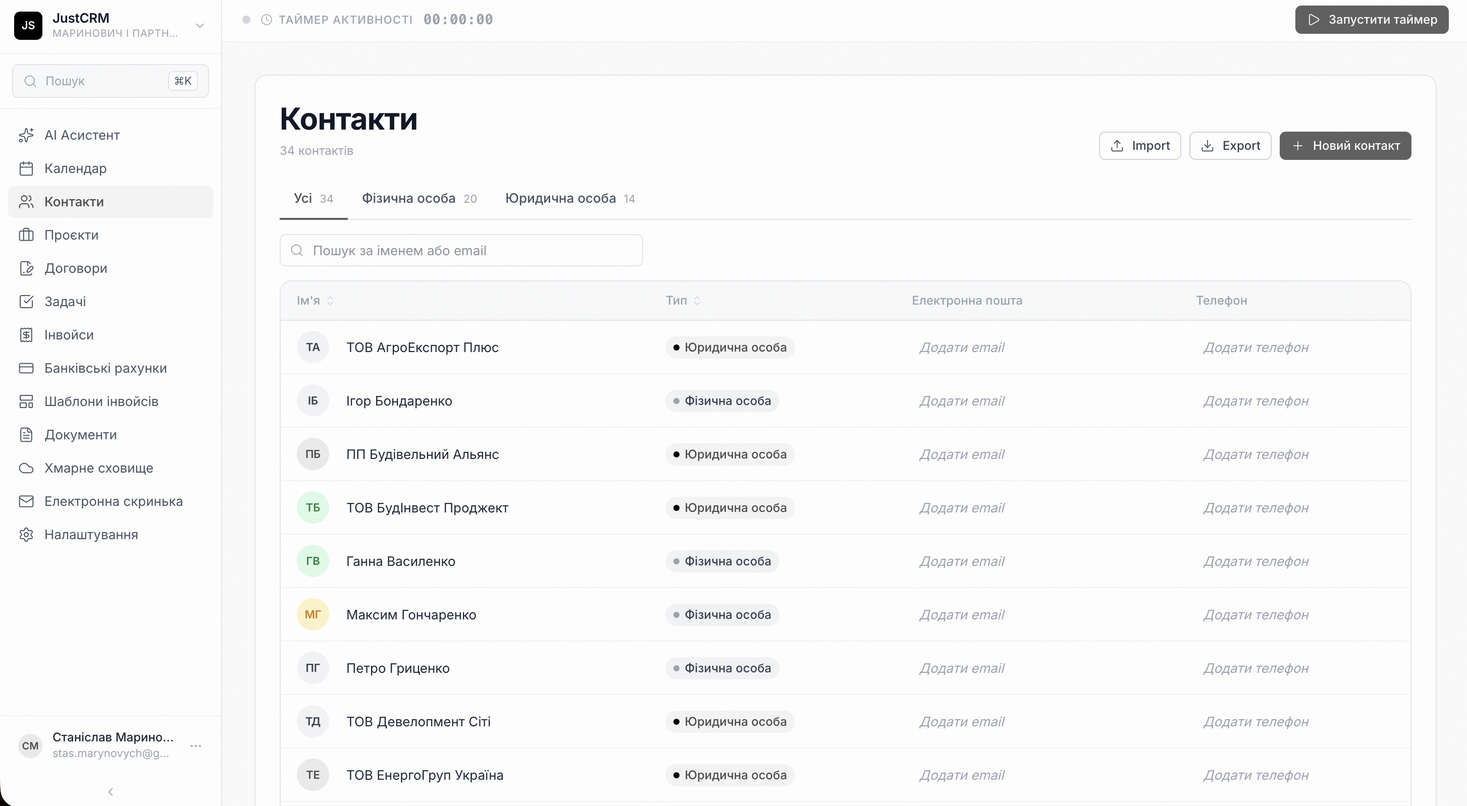
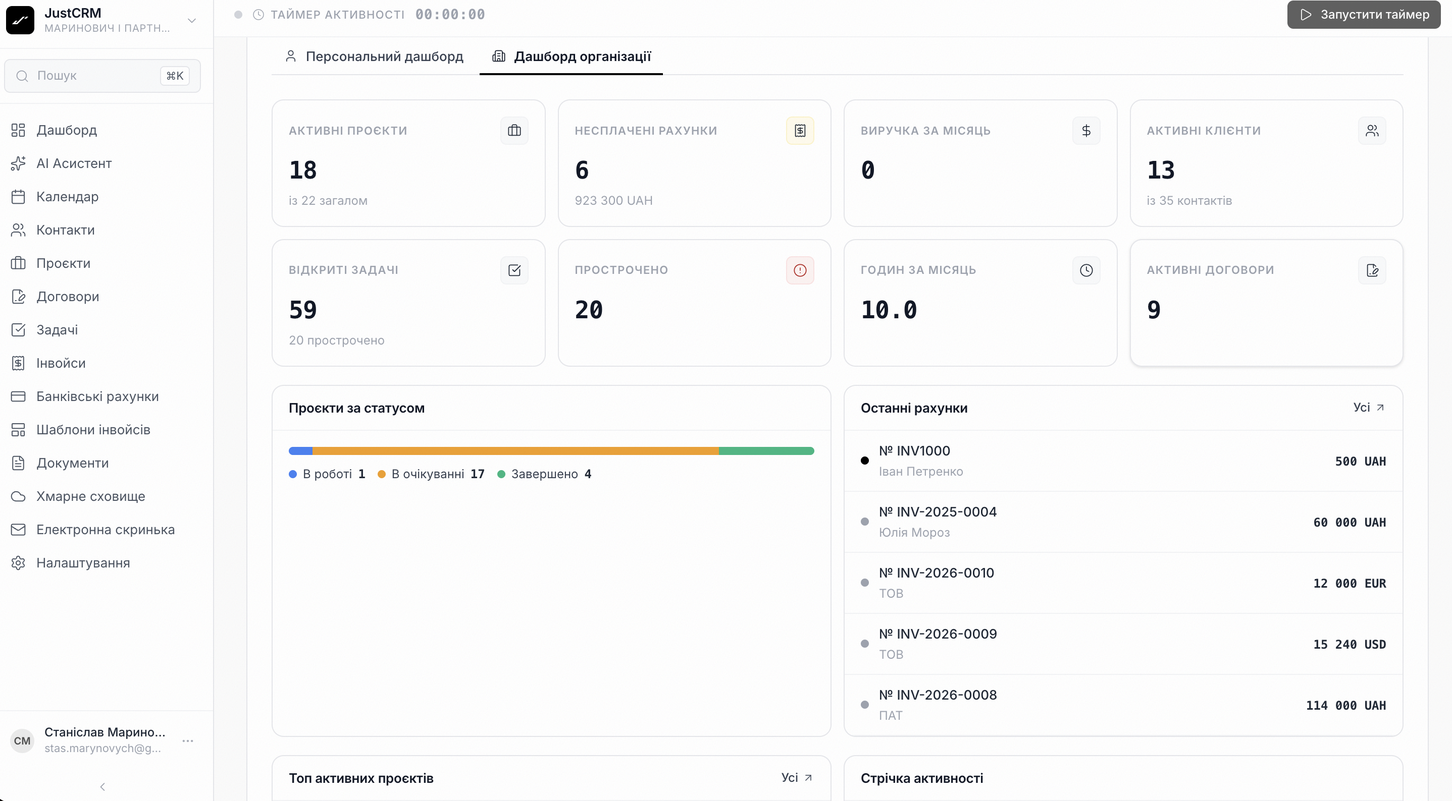
Feature screenshots, light theme, scroll buttons, layout fixes
- All 7 feature sections now have real CRM screenshots
- Hero banner updated with new screenshot
- Sections: white/light-gray alternating (no dark theme)
- Custom Tables renamed to "Конструктор таблиць"
- Tags centered, titles left-aligned
- Removed lg:pl-48 sidebar padding from all sections
- Added scroll-to-top/bottom buttons
- Hero banner max-w-[1400px]
- PageNav adapted for light-only theme

diff --git a/components/Features.tsx b/components/Features.tsx
@@ -6,11 +6,12 @@ const sections = [
   {
     id: "cases",
     nav: "Справи",
+    image: "/images/feat-cases.png",
     tag: "СПРАВИ",
     title: "Вся інформація по справі —",
     titleLight: " в одному місці",
     desc: "Документи, задачі, оплати, контакти та листування зібрані в картці справи. Три режими перегляду — Kanban, список або таблиця.",
-    bg: "black" as const,
+    bg: "gray" as const,
     cards: [
       {
         title: "Kanban, список, таблиця",
@@ -62,6 +63,7 @@ const sections = [
   {
     id: "billing",
     nav: "Білінг",
+    image: "/images/feat-billing.png",
     tag: "БІЛІНГ & КЕРУВАННЯ ЧАСОМ",
     title: "Облік часу та виставлення рахунків",
     titleLight: " без зайвих кроків",
@@ -118,11 +120,12 @@ const sections = [
   {
     id: "tasks",
     nav: "Задачі",
+    image: "/images/feat-tasks.png",
     tag: "УПРАВЛІННЯ ЗАДАЧАМИ ТА ПОДІЯМИ",
     title: "Планування роботи",
     titleLight: " з контролем виконання",
     desc: "Створюйте задачі, призначайте виконавців, встановлюйте дедлайни. Кожна задача прив'язана до справи та відображається у зручному форматі.",
-    bg: "black" as const,
+    bg: "gray" as const,
     layout: "centered-grid" as const,
     cards: [
       {
@@ -175,6 +178,7 @@ const sections = [
   {
     id: "clients",
     nav: "Клієнти",
+    image: "/images/feat-clients.png",
     tag: "РОБОТА З КЛІЄНТАМИ",
     title: "Повне досьє клієнта —",
     titleLight: " від першого звернення до завершення справи",
@@ -231,11 +235,12 @@ const sections = [
   {
     id: "ai",
     nav: "AI",
+    image: "/images/feat-ai.png",
     tag: "AI-МОЖЛИВОСТІ",
     title: "Інструменти штучного інтелекту,",
     titleLight: " вбудовані у щоденну роботу",
     desc: "Генерація документів, голосове введення, покращення текстів та пошук по базі знань фірми. AI формує чернетку — юрист перевіряє та затверджує.",
-    bg: "black" as const,
+    bg: "gray" as const,
     layout: "cards-before-banner" as const,
     cards: [
       {
@@ -291,7 +296,8 @@ const sections = [
   {
     id: "tables",
     nav: "Таблиці",
-    tag: "КАСТОМНІ ТАБЛИЦІ",
+    image: "/images/feat-tables.png",
+    tag: "КОНСТРУКТОР ТАБЛИЦЬ",
     title: "Власні реєстри та довідники",
     titleLight: " всередині CRM",
     desc: "Створюйте таблиці під потреби Вашої практики — з полями, фільтрами та зв'язками. Без переходу в Notion або Google Sheets.",
@@ -350,11 +356,12 @@ const sections = [
   {
     id: "docs",
     nav: "Документи",
+    image: "/images/feat-docs.png",
     tag: "ДОКУМЕНТИ",
     title: "Зберігання та генерація документів",
     titleLight: " в єдиному просторі",
     desc: "Завантажуйте файли, створюйте документи з шаблонів, надавайте доступ команді. Кожен документ прив'язаний до справи або клієнта.",
-    bg: "black" as const,
+    bg: "gray" as const,
     layout: "centered-list" as const,
     cards: [
       {
@@ -405,7 +412,8 @@ const sections = [
   },
 ];
 
-function AppWindow({ dark, label }: { dark: boolean; label: string }) {
+function AppWindow({ dark, label, image }: { dark: boolean; label: string; image?: string }) {
+  const bp = process.env.NEXT_PUBLIC_BASE_PATH || "";
   return (
     <div className="w-full mx-auto">
       <div
@@ -436,6 +444,9 @@ function AppWindow({ dark, label }: { dark: boolean; label: string }) {
           <div className="w-[52px]" />
         </div>
         {/* Content area */}
+        {image ? (
+          <img src={`${bp}${image}`} alt={`JustCRM — ${label}`} className="w-full h-auto" />
+        ) : (
         <div className={`aspect-[16/9] flex items-center justify-center ${
           dark ? "bg-[#141414]" : "bg-[#fafafa]"
         }`}>
@@ -445,6 +456,7 @@ function AppWindow({ dark, label }: { dark: boolean; label: string }) {
             {label}
           </span>
         </div>
+        )}
       </div>
     </div>
   );
@@ -474,7 +486,8 @@ export default function Features() {
   return (
     <div id="features" ref={containerRef}>
       {sections.map((s, i) => {
-        const dark = s.bg === "black";
+        const dark = false;
+        const bgClass = s.bg === "gray" ? "bg-[#f4f4f4]" : "bg-white";
         const isVisible = visible.has(i);
 
         return (
@@ -482,44 +495,45 @@ export default function Features() {
             key={s.id}
             id={`feat-${s.id}`}
             ref={(el: HTMLElement | null) => { sectionRefs.current[i] = el as HTMLDivElement | null; }}
-            className={`${dark ? "bg-black text-white" : "bg-white text-black"} min-h-screen flex items-center overflow-hidden`}
+            className={`${bgClass} text-black min-h-screen flex items-center overflow-hidden`}
           >
             <div className="max-w-[1400px] mx-auto px-6 lg:px-12 w-full py-24">
 
               {/* === DEFAULT LAYOUT: tag → title → desc → banner → cards === */}
               {(!("layout" in s) || !s.layout) && (<>
-                <p className={`font-mono text-[13px] font-semibold uppercase tracking-[0.1em] mb-6 transition-all duration-700 ${isVisible ? "opacity-100 translate-y-0" : "opacity-0 translate-y-4"} ${dark ? "text-white/60" : "text-black/50"}`}>{s.tag}</p>
+                <p className={`text-center font-mono text-[13px] font-semibold uppercase tracking-[0.1em] mb-6 transition-all duration-700 ${isVisible ? "opacity-100 translate-y-0" : "opacity-0 translate-y-4"} ${dark ? "text-white/60" : "text-black/50"}`}>{s.tag}</p>
                 <h2 className={`text-3xl lg:text-[42px] font-bold leading-[1.12] tracking-tight mb-4 transition-all duration-700 delay-100 ${isVisible ? "opacity-100 translate-y-0" : "opacity-0 translate-y-6"}`}>
                   {s.title}<span className={`font-normal ${dark ? "text-white/45" : "text-black/35"}`}>{s.titleLight}</span>
                 </h2>
                 <p className={`text-base leading-relaxed max-w-2xl mb-10 transition-all duration-700 delay-200 ${isVisible ? "opacity-100 translate-y-0" : "opacity-0 translate-y-4"} ${dark ? "text-white/50" : "text-black/45"}`}>{s.desc}</p>
-                <div className={`mb-8 transition-all duration-1000 delay-300 ${isVisible ? "opacity-100 translate-y-0 scale-100" : "opacity-0 translate-y-8 scale-[0.97]"}`}>
-                  <AppWindow dark={dark} label={s.nav} />
+                <div className={`mb-10 transition-all duration-1000 delay-300 ${isVisible ? "opacity-100 translate-y-0 scale-100" : "opacity-0 translate-y-8 scale-[0.97]"}`}>
+                  <AppWindow dark={dark} label={s.nav} image={s.image} />
                 </div>
-                <div className="grid grid-cols-1 sm:grid-cols-2 lg:grid-cols-4 gap-8">
-                  {s.cards.map((card, ci) => (
-                    <div key={ci} className={`transition-all duration-600 ${isVisible ? "opacity-100 translate-y-0" : "opacity-0 translate-y-6"}`} style={{ transitionDelay: isVisible ? `${400 + ci * 100}ms` : "0ms" }}>
-                      <div className={`w-10 h-10 rounded-xl flex items-center justify-center mb-4 ${dark ? "bg-white/[0.05]" : "bg-black/[0.04]"}`}>
-                        <div className="w-6 h-6">{card.icon(dark ? "#ffffff" : "#000000")}</div>
+                <div className={`border-t ${dark ? "border-white/8" : "border-black/8"} transition-all duration-700 delay-500 ${isVisible ? "opacity-100" : "opacity-0"}`}>
+                  <div className="grid grid-cols-1 sm:grid-cols-2 lg:grid-cols-4">
+                    {s.cards.map((card, ci) => (
+                      <div
+                        key={ci}
+                        className={`py-6 px-5 transition-all duration-500 ${isVisible ? "opacity-100 translate-y-0" : "opacity-0 translate-y-4"} ${ci > 0 ? `lg:border-l ${dark ? "border-white/8" : "border-black/8"}` : ""}`}
+                        style={{ transitionDelay: isVisible ? `${600 + ci * 80}ms` : "0ms" }}
+                      >
+                        <h3 className={`text-[15px] font-semibold mb-2 ${dark ? "text-white" : "text-black"}`}>{card.title}</h3>
+                        <p className={`text-[13px] leading-relaxed ${dark ? "text-white/45" : "text-black/40"}`}>{card.desc}</p>
                       </div>
-                      <h3 className={`text-[14px] font-semibold mb-2 ${dark ? "text-white" : "text-black"}`}>{card.title}</h3>
-                      <p className={`text-[13px] leading-relaxed ${dark ? "text-white/45" : "text-black/40"}`}>{card.desc}</p>
-                    </div>
-                  ))}
+                    ))}
+                  </div>
                 </div>
               </>)}
 
               {/* === CENTERED-LIST: centered text → banner → vertical list rows === */}
               {s.layout === "centered-list" && (<>
-                <div className="text-center max-w-3xl mx-auto mb-10">
-                  <p className={`font-mono text-[13px] font-semibold uppercase tracking-[0.1em] mb-6 transition-all duration-700 ${isVisible ? "opacity-100 translate-y-0" : "opacity-0 translate-y-4"} ${dark ? "text-white/60" : "text-black/50"}`}>{s.tag}</p>
-                  <h2 className={`text-3xl lg:text-[42px] font-bold leading-[1.12] tracking-tight mb-4 transition-all duration-700 delay-100 ${isVisible ? "opacity-100 translate-y-0" : "opacity-0 translate-y-6"}`}>
-                    {s.title}<span className={`font-normal ${dark ? "text-white/40" : "text-black/30"}`}>{s.titleLight}</span>
-                  </h2>
-                  <p className={`text-base leading-relaxed mx-auto transition-all duration-700 delay-200 ${isVisible ? "opacity-100 translate-y-0" : "opacity-0 translate-y-4"} ${dark ? "text-white/50" : "text-black/45"}`}>{s.desc}</p>
-                </div>
+                <p className={`text-center font-mono text-[13px] font-semibold uppercase tracking-[0.1em] mb-6 transition-all duration-700 ${isVisible ? "opacity-100 translate-y-0" : "opacity-0 translate-y-4"} ${dark ? "text-white/60" : "text-black/50"}`}>{s.tag}</p>
+                <h2 className={`text-3xl lg:text-[42px] font-bold leading-[1.12] tracking-tight mb-4 transition-all duration-700 delay-100 ${isVisible ? "opacity-100 translate-y-0" : "opacity-0 translate-y-6"}`}>
+                  {s.title}<span className={`font-normal ${dark ? "text-white/40" : "text-black/30"}`}>{s.titleLight}</span>
+                </h2>
+                <p className={`text-base leading-relaxed max-w-2xl mb-10 transition-all duration-700 delay-200 ${isVisible ? "opacity-100 translate-y-0" : "opacity-0 translate-y-4"} ${dark ? "text-white/50" : "text-black/45"}`}>{s.desc}</p>
                 <div className={`mb-10 transition-all duration-1000 delay-300 ${isVisible ? "opacity-100 translate-y-0 scale-100" : "opacity-0 translate-y-8 scale-[0.97]"}`}>
-                  <AppWindow dark={dark} label={s.nav} />
+                  <AppWindow dark={dark} label={s.nav} image={s.image} />
                 </div>
                 <div className={`border-t ${dark ? "border-white/8" : "border-black/8"} transition-all duration-700 delay-500 ${isVisible ? "opacity-100" : "opacity-0"}`}>
                   {s.cards.map((card, ci) => (
@@ -537,13 +551,13 @@ export default function Features() {
 
               {/* === UNDERLINED-COLS: tag → title → desc → banner → 4 cols with underlined titles === */}
               {s.layout === "underlined-cols" && (<>
-                <p className={`font-mono text-[13px] font-semibold uppercase tracking-[0.1em] mb-6 transition-all duration-700 ${isVisible ? "opacity-100 translate-y-0" : "opacity-0 translate-y-4"} ${dark ? "text-white/60" : "text-black/50"}`}>{s.tag}</p>
+                <p className={`text-center font-mono text-[13px] font-semibold uppercase tracking-[0.1em] mb-6 transition-all duration-700 ${isVisible ? "opacity-100 translate-y-0" : "opacity-0 translate-y-4"} ${dark ? "text-white/60" : "text-black/50"}`}>{s.tag}</p>
                 <h2 className={`text-3xl lg:text-[42px] font-bold leading-[1.12] tracking-tight mb-4 transition-all duration-700 delay-100 ${isVisible ? "opacity-100 translate-y-0" : "opacity-0 translate-y-6"}`}>
                   {s.title}<span className={`font-normal ${dark ? "text-white/45" : "text-black/35"}`}>{s.titleLight}</span>
                 </h2>
                 <p className={`text-base leading-relaxed max-w-2xl mb-10 transition-all duration-700 delay-200 ${isVisible ? "opacity-100 translate-y-0" : "opacity-0 translate-y-4"} ${dark ? "text-white/50" : "text-black/45"}`}>{s.desc}</p>
                 <div className={`mb-10 transition-all duration-1000 delay-300 ${isVisible ? "opacity-100 translate-y-0 scale-100" : "opacity-0 translate-y-8 scale-[0.97]"}`}>
-                  <AppWindow dark={dark} label={s.nav} />
+                  <AppWindow dark={dark} label={s.nav} image={s.image} />
                 </div>
                 <div className="grid grid-cols-1 sm:grid-cols-2 lg:grid-cols-4 gap-8">
                   {s.cards.map((card, ci) => (
@@ -561,7 +575,7 @@ export default function Features() {
 
               {/* === CARDS-BEFORE-BANNER: tag → title → desc → 2×2 cards → banner === */}
               {s.layout === "cards-before-banner" && (<>
-                <p className={`font-mono text-[13px] font-semibold uppercase tracking-[0.1em] mb-6 transition-all duration-700 ${isVisible ? "opacity-100 translate-y-0" : "opacity-0 translate-y-4"} ${dark ? "text-white/60" : "text-black/50"}`}>{s.tag}</p>
+                <p className={`text-center font-mono text-[13px] font-semibold uppercase tracking-[0.1em] mb-6 transition-all duration-700 ${isVisible ? "opacity-100 translate-y-0" : "opacity-0 translate-y-4"} ${dark ? "text-white/60" : "text-black/50"}`}>{s.tag}</p>
                 <h2 className={`text-3xl lg:text-[42px] font-bold leading-[1.12] tracking-tight mb-4 transition-all duration-700 delay-100 ${isVisible ? "opacity-100 translate-y-0" : "opacity-0 translate-y-6"}`}>
                   {s.title}<span className={`font-normal ${dark ? "text-white/45" : "text-black/35"}`}>{s.titleLight}</span>
                 </h2>
@@ -579,15 +593,15 @@ export default function Features() {
                   ))}
                 </div>
                 <div className={`transition-all duration-1000 delay-700 ${isVisible ? "opacity-100 translate-y-0 scale-100" : "opacity-0 translate-y-8 scale-[0.97]"}`}>
-                  <AppWindow dark={dark} label={s.nav} />
+                  <AppWindow dark={dark} label={s.nav} image={s.image} />
                 </div>
               </>)}
 
               {/* === BANNER-TOP-SPLIT: tag → banner → title+desc left, numbered list right === */}
               {s.layout === "banner-top-split" && (<>
-                <p className={`font-mono text-[13px] font-semibold uppercase tracking-[0.1em] mb-8 transition-all duration-700 ${isVisible ? "opacity-100 translate-y-0" : "opacity-0 translate-y-4"} ${dark ? "text-white/60" : "text-black/50"}`}>{s.tag}</p>
+                <p className={`text-center font-mono text-[13px] font-semibold uppercase tracking-[0.1em] mb-8 transition-all duration-700 ${isVisible ? "opacity-100 translate-y-0" : "opacity-0 translate-y-4"} ${dark ? "text-white/60" : "text-black/50"}`}>{s.tag}</p>
                 <div className={`mb-12 transition-all duration-1000 delay-100 ${isVisible ? "opacity-100 translate-y-0 scale-100" : "opacity-0 translate-y-8 scale-[0.97]"}`}>
-                  <AppWindow dark={dark} label={s.nav} />
+                  <AppWindow dark={dark} label={s.nav} image={s.image} />
                 </div>
                 <div className="grid lg:grid-cols-[1fr_1fr] gap-12 lg:gap-20">
                   <div className={`transition-all duration-700 delay-300 ${isVisible ? "opacity-100 translate-y-0" : "opacity-0 translate-y-6"}`}>
@@ -618,15 +632,13 @@ export default function Features() {
 
               {/* === CENTERED-GRID: centered text → banner → 2×2 grid with lines === */}
               {s.layout === "centered-grid" && (<>
-                <div className="text-center max-w-3xl mx-auto mb-10">
-                  <p className={`font-mono text-[13px] font-semibold uppercase tracking-[0.1em] mb-6 transition-all duration-700 ${isVisible ? "opacity-100 translate-y-0" : "opacity-0 translate-y-4"} ${dark ? "text-white/60" : "text-black/50"}`}>{s.tag}</p>
-                  <h2 className={`text-3xl lg:text-[42px] font-bold leading-[1.12] tracking-tight mb-4 transition-all duration-700 delay-100 ${isVisible ? "opacity-100 translate-y-0" : "opacity-0 translate-y-6"}`}>
-                    {s.title}<span className={`font-normal ${dark ? "text-white/45" : "text-black/35"}`}>{s.titleLight}</span>
-                  </h2>
-                  <p className={`text-base leading-relaxed mx-auto mb-0 transition-all duration-700 delay-200 ${isVisible ? "opacity-100 translate-y-0" : "opacity-0 translate-y-4"} ${dark ? "text-white/50" : "text-black/45"}`}>{s.desc}</p>
-                </div>
+                <p className={`text-center font-mono text-[13px] font-semibold uppercase tracking-[0.1em] mb-6 transition-all duration-700 ${isVisible ? "opacity-100 translate-y-0" : "opacity-0 translate-y-4"} ${dark ? "text-white/60" : "text-black/50"}`}>{s.tag}</p>
+                <h2 className={`text-3xl lg:text-[42px] font-bold leading-[1.12] tracking-tight mb-4 transition-all duration-700 delay-100 ${isVisible ? "opacity-100 translate-y-0" : "opacity-0 translate-y-6"}`}>
+                  {s.title}<span className={`font-normal ${dark ? "text-white/45" : "text-black/35"}`}>{s.titleLight}</span>
+                </h2>
+                <p className={`text-base leading-relaxed max-w-2xl mb-10 transition-all duration-700 delay-200 ${isVisible ? "opacity-100 translate-y-0" : "opacity-0 translate-y-4"} ${dark ? "text-white/50" : "text-black/45"}`}>{s.desc}</p>
                 <div className={`mb-10 transition-all duration-1000 delay-300 ${isVisible ? "opacity-100 translate-y-0 scale-100" : "opacity-0 translate-y-8 scale-[0.97]"}`}>
-                  <AppWindow dark={dark} label={s.nav} />
+                  <AppWindow dark={dark} label={s.nav} image={s.image} />
                 </div>
                 <div className={`grid grid-cols-1 sm:grid-cols-2 border-t ${dark ? "border-white/8" : "border-black/8"} transition-all duration-700 delay-500 ${isVisible ? "opacity-100" : "opacity-0"}`}>
                   {s.cards.map((card, ci) => (
@@ -644,9 +656,9 @@ export default function Features() {
 
               {/* === BANNER-FIRST: tag → banner → title → desc → cards with dividers === */}
               {s.layout === "banner-first" && (<>
-                <p className={`font-mono text-[13px] font-semibold uppercase tracking-[0.1em] mb-8 transition-all duration-700 ${isVisible ? "opacity-100 translate-y-0" : "opacity-0 translate-y-4"} ${dark ? "text-white/60" : "text-black/50"}`}>{s.tag}</p>
+                <p className={`text-center font-mono text-[13px] font-semibold uppercase tracking-[0.1em] mb-8 transition-all duration-700 ${isVisible ? "opacity-100 translate-y-0" : "opacity-0 translate-y-4"} ${dark ? "text-white/60" : "text-black/50"}`}>{s.tag}</p>
                 <div className={`mb-12 transition-all duration-1000 delay-100 ${isVisible ? "opacity-100 translate-y-0 scale-100" : "opacity-0 translate-y-8 scale-[0.97]"}`}>
-                  <AppWindow dark={dark} label={s.nav} />
+                  <AppWindow dark={dark} label={s.nav} image={s.image} />
                 </div>
                 <h2 className={`text-3xl lg:text-[42px] font-bold leading-[1.12] tracking-tight mb-4 transition-all duration-700 delay-300 ${isVisible ? "opacity-100 translate-y-0" : "opacity-0 translate-y-6"}`}>
                   {s.title}<span className={`font-normal ${dark ? "text-white/45" : "text-black/35"}`}>{s.titleLight}</span>

diff --git a/app/page.tsx b/app/page.tsx
@@ -12,6 +12,7 @@ import Pricing from "@/components/Pricing";
 import Features from "@/components/Features";
 import MoreTools from "@/components/MoreTools";
 import PageNav from "@/components/PageNav";
+import ScrollButtons from "@/components/ScrollButtons";
 
 const bp = process.env.NEXT_PUBLIC_BASE_PATH || "";
 
@@ -20,6 +21,7 @@ export default function Home() {
     <>
       <Header />
       <PageNav />
+      <ScrollButtons />
       <main className="flex-1">
         {/* Hero */}
         <section id="hero" className="relative bg-[#f4f4f4] overflow-hidden">
@@ -58,7 +60,7 @@ export default function Home() {
             </div>
 
             {/* Browser frame */}
-            <div className="mt-2 mx-auto max-w-5xl translate-y-16 lg:translate-y-20">
+            <div className="mt-2 mx-auto max-w-[1400px] translate-y-16 lg:translate-y-20">
               <BrowserFrame />
             </div>
           </div>
@@ -123,7 +125,7 @@ export default function Home() {
 
         {/* Problem section — Twenty-style */}
         <section id="problem" className="py-24 lg:py-32 bg-white">
-          <div className="max-w-[1440px] mx-auto px-8 lg:px-16 lg:pl-48">
+          <div className="max-w-[1440px] mx-auto px-8 lg:px-16">
             <div className="grid lg:grid-cols-[1fr_1fr] gap-16 lg:gap-24 items-center">
               {/* Left — halftone image */}
               <div>
@@ -183,7 +185,7 @@ export default function Home() {
 
         {/* Final CTA */}
         <section className="py-24">
-          <div className="max-w-[1440px] mx-auto px-8 lg:px-16 lg:pl-48 text-center">
+          <div className="max-w-[1440px] mx-auto px-8 lg:px-16 text-center">
             <h2 className="text-3xl lg:text-5xl font-light tracking-tight">
               Спробуйте JustCRM вже сьогодні
             </h2>

diff --git a/components/ScrollButtons.tsx b/components/ScrollButtons.tsx
@@ -1,0 +1,40 @@
+"use client";
+
+import { useEffect, useState } from "react";
+
+export default function ScrollButtons() {
+  const [show, setShow] = useState(false);
+
+  useEffect(() => {
+    const handle = () => setShow(window.scrollY > 400);
+    window.addEventListener("scroll", handle, { passive: true });
+    return () => window.removeEventListener("scroll", handle);
+  }, []);
+
+  return (
+    <div
+      className={`fixed bottom-6 right-6 z-50 flex flex-col gap-2 transition-all duration-400 ${
+        show ? "opacity-100 translate-y-0" : "opacity-0 translate-y-4 pointer-events-none"
+      }`}
+    >
+      <button
+        onClick={() => window.scrollTo({ top: 0, behavior: "smooth" })}
+        className="w-10 h-10 rounded-full bg-black/70 backdrop-blur-md text-white flex items-center justify-center hover:bg-black/90 transition-colors"
+        aria-label="Вгору"
+      >
+        <svg className="w-4 h-4" viewBox="0 0 24 24" fill="none" stroke="currentColor" strokeWidth="2" strokeLinecap="round" strokeLinejoin="round">
+          <path d="M18 15l-6-6-6 6" />
+        </svg>
+      </button>
+      <button
+        onClick={() => window.scrollTo({ top: document.body.scrollHeight, behavior: "smooth" })}
+        className="w-10 h-10 rounded-full bg-black/70 backdrop-blur-md text-white flex items-center justify-center hover:bg-black/90 transition-colors"
+        aria-label="Вниз"
+      >
+        <svg className="w-4 h-4" viewBox="0 0 24 24" fill="none" stroke="currentColor" strokeWidth="2" strokeLinecap="round" strokeLinejoin="round">
+          <path d="M6 9l6 6 6-6" />
+        </svg>
+      </button>
+    </div>
+  );
+}

diff --git a/components/FAQ.tsx b/components/FAQ.tsx
@@ -75,7 +75,7 @@ function FAQItem({ q, a }: { q: string; a: string }) {
 export default function FAQ() {
   return (
     <section className="py-20 bg-surface" id="faq">
-      <div className="max-w-[1440px] mx-auto px-8 lg:px-16 lg:pl-48">
+      <div className="max-w-[1440px] mx-auto px-8 lg:px-16">
         <div className="text-center mb-12">
           <p className="font-mono text-[11px] font-medium text-black/30 uppercase tracking-[0.15em] mb-4">
             Питання

diff --git a/components/MoreTools.tsx b/components/MoreTools.tsx
@@ -107,7 +107,7 @@ export default function MoreTools() {
 
   return (
     <section className="py-28 lg:py-40 bg-[#fafafa]" id="more-tools">
-      <div className="max-w-[1440px] mx-auto px-8 lg:px-16 lg:pl-48">
+      <div className="max-w-[1440px] mx-auto px-8 lg:px-16">
         <div className="mb-20">
           <p className="font-mono text-[11px] font-medium text-black/30 uppercase tracking-[0.15em] mb-4">
             Інструменти

diff --git a/components/Pricing.tsx b/components/Pricing.tsx
@@ -70,7 +70,7 @@ function Check() {
 export default function Pricing() {
   return (
     <section className="py-20 bg-white" id="pricing">
-      <div className="max-w-[1440px] mx-auto px-8 lg:px-16 lg:pl-48">
+      <div className="max-w-[1440px] mx-auto px-8 lg:px-16">
         <div className="text-center mb-12">
           <p className="font-mono text-[11px] font-medium text-black/30 uppercase tracking-[0.15em] mb-4">
             Тарифи

diff --git a/components/SecurityCards.tsx b/components/SecurityCards.tsx
@@ -30,7 +30,7 @@ const points = [
 export default function SecurityCards() {
   return (
     <section className="pt-28 pb-20 lg:pt-36 lg:pb-28 bg-[#f7f7f5]" id="security">
-      <div className="max-w-[1440px] mx-auto px-8 lg:px-16 lg:pl-48">
+      <div className="max-w-[1440px] mx-auto px-8 lg:px-16">
         <div className="grid lg:grid-cols-2 gap-16 lg:gap-20 items-start">
           {/* Left — headline */}
           <div>

diff --git a/components/PageNav.tsx b/components/PageNav.tsx
@@ -16,7 +16,7 @@ const items = [
   { id: "faq", label: "FAQ" },
 ];
 
-const darkSections = new Set(["feat-cases", "feat-tasks", "feat-ai", "feat-docs"]);
+const darkSections = new Set<string>();
 
 export default function PageNav() {
   const [activeId, setActiveId] = useState("");
